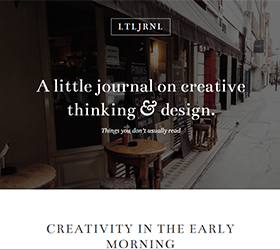
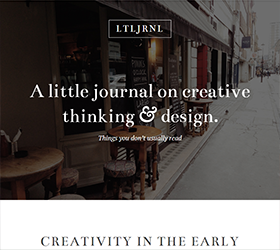
fix: 포트폴리오 샘플 추가 및 이미지 수정

diff --git a/index.html b/index.html
@@ -230,10 +230,10 @@
         <h3>Projects</h3>
         <div class="work__categories">
           <button class="category__btn selected" data-filter="*">
-            All<span class="category__count">2</span>
+            All<span class="category__count">4</span>
           </button>
           <button class="category__btn" data-filter="HTML">
-            HTML&#47;CSS<span class="category__count">2</span>
+            HTML&#47;CSS<span class="category__count">4</span>
           </button>
           <button class="category__btn" data-filter="React">
             React<span class="category__count">0</span>
@@ -271,6 +271,25 @@
                 <p>Flex layout accordian navigation</p>
                 <div>
                   <a href="/portfolio/blog02" target="_blank">Link</a>
+                  <a
+                    href="https://github.com/hwakk/portfolio.git"
+                    target="_blank"
+                    >GitHub</a
+                  >
+                </div>
+              </div>
+            </li>
+            <li class="project" data-type="HTML">
+              <img
+                src="/images/projects/blog03.png"
+                alt="BlogLayout"
+                class="project__img"
+              />
+              <div class="project__description">
+                <h3>Blog Layout</h3>
+                <p>PSD to HTML, CSS</p>
+                <div>
+                  <a href="/portfolio/blog03" target="_blank">Link</a>
                   <a
                     href="https://github.com/hwakk/portfolio.git"
                     target="_blank"

diff --git a/style.css b/style.css
@@ -162,7 +162,7 @@ p {
 
 #home:before {
   content: "";
-  background: url(imgs/home-background.png) no-repeat 50% 0 / cover;
+  background: url(images/home-background.png) no-repeat 50% 0 / cover;
   background-position: bottom;
   position: absolute;
   top: 0px;
